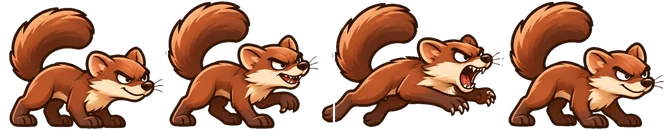
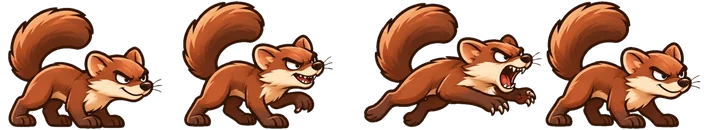
Simboli di stato in campo e abilità sulle carte; Lupo, Falco e sheet ritagliati interi
- 24 simboli (icons/st): sopra l'unità in campo (fino a due) e in fila sull'illustrazione della carta
- ritaglio dei fogli per spazi vuoti e forme intere, mai a celle uguali (tools/immagini, CLAUDE.md)

Claude-Session: https://claude.ai/code/session_01HfaWZ85fbzKyRqfxnb746i

diff --git a/index.html b/index.html
@@ -303,6 +303,9 @@ details.codex summary{cursor:pointer;font-family:var(--f-display);font-size:20px
 @keyframes spin{to{transform:rotate(360deg)}}
 @media (prefers-reduced-motion:reduce){.tcg.s3 .tart::before{animation:none}}
 .tstars{position:absolute;right:8px;bottom:6px;color:#ffd54a;font-size:16px;text-shadow:0 1px 2px rgba(0,0,0,.6);letter-spacing:1px}
+.tabil{position:absolute;left:6px;bottom:6px;display:flex;gap:3px;z-index:1}
+.tabil img{width:26px;height:26px;padding:2px;border-radius:50%;background:rgba(255,255,255,.82);box-shadow:0 1px 3px rgba(0,0,0,.25)}
+.cmbox .tabil img{width:32px;height:32px}.tcg.compact .tabil img{width:22px;height:22px}
 .ttags{font-size:11px;font-weight:800;text-transform:uppercase;letter-spacing:.05em;color:var(--muted)}
 .tstats{display:grid;gap:4px;background:var(--chip);border-radius:12px;padding:8px 10px}
 .trow{display:grid;grid-template-columns:7.4em 1fr 3.8em;align-items:center;gap:8px;font-size:12.5px;font-weight:800}
@@ -1304,12 +1307,24 @@ const ORDERS={
 };
 
 const IMG={};
+// simboli di stato e abilità (cartella icons/st/): sopra la testa in campo e in una fila sulle carte
+const STN={stordito:'Stordisce',trappola:'Trappole',calamita:'Attira i nemici',pannocchia:'Esca per gli Animali',moneta:'Esca per gli Umani',zzz:'Pisolino',
+  lumaca:'Rallenta',nube:'Nube puzzolente',ape:'Api',stivale:'Velocità',sacco:'Diventa ladro',manette:'Arresto',croce:'Cura',maschera:'Travestimento',fantasma:'Invisibile',
+  spinta:'Spinta',ali:'Vola',pala:'Scava',occhio:'Scopre i nascosti',staccionata:'Costruisce',mirino:'Spara da lontano',corazza:'Corazza',uovofinto:'Uovo finto',grido:"Grido d'allarme"};
+const STI={};for(const k in STN){STI[k]=new Image();STI[k].src=`icons/st/${k}.webp`}
+const ABIL={tacchino:['calamita','lumaca'],gallico:['calamita','lumaca','stordito'],mucca:['spinta','lumaca'],asino:['spinta','calamita','corazza','grido'],
+  cane:['sacco'],spazzino:['sacco'],trombettiere:['stivale','sacco'],oca:['grido','stivale'],avicoltore:['stivale'],toro:['stivale'],
+  spaventa:['calamita','lumaca'],mais:['pannocchia'],coltivatore:['pannocchia'],benefattore:['moneta'],ladro:['fantasma'],volpe:['maschera'],
+  cacciatore:['mirino'],poliziotto:['mirino','manette'],bracconiere:['trappola','stordito','sacco'],corvo:['ali','occhio'],gufo:['ali','occhio'],gazza:['ali'],falco:['ali'],
+  gatto:['occhio'],talpa:['pala'],carpentiera:['staccionata'],castoro:['staccionata'],chioccia:['uovofinto'],veterinario:['croce'],puzzola:['nube'],
+  apicoltore:['ape','lumaca'],lepre:['zzz'],tartaruga:['corazza']};
+const abilRow=k=>(ABIL[k]||[]).length?`<span class="tabil">${ABIL[k].map(a=>`<img src="icons/st/${a}.webp" alt="${STN[a]}" title="${STN[a]}">`).join('')}</span>`:'';
 // personaggi animati (cartella icons/anim/): striscia orizzontale di n fotogrammi, il personaggio guarda a destra.
 // stride = pixel percorsi per fotogramma; h = altezza in campo. Chi non è qui usa l'icona nel tondino.
 const ANIM={
-  faina:{h:31,stride:7,walk:{n:4,fw:153,fh:131,ax:.5},atk:{n:4,fw:167,fh:130,ax:.516}},
-  mucca:{h:40,stride:6,walk:{n:4,fw:176,fh:134,ax:.5},atk:{n:4,fw:191,fh:139,ax:.459}},
-  corvo:{h:40,fly:{n:4,fw:151,fh:179,ax:.994,ox:62},atk:{n:4,fw:164,fh:173,ax:.994,ox:62}},
+  faina:{h:31,stride:7,walk:{n:4,fw:153,fh:131,ax:.5},atk:{n:4,fw:181,fh:130,ax:.47}},
+  mucca:{h:40,stride:6,walk:{n:4,fw:176,fh:134,ax:.5},atk:{n:4,fw:204,fh:139,ax:.409}},
+  corvo:{h:40,fly:{n:4,fw:151,fh:179,ax:.994,ox:62},atk:{n:4,fw:167,fh:173,ax:.968,ox:62}},
 };
 // file: icons/anim/<personaggio>-walk|atk|fly.webp; ax = punto d'aggancio nel fotogramma (0 sinistra, 1 destra), ox = suo spostamento dal centro (px a scala 128)
 for(const k in ANIM)for(const m of ['walk','atk','fly'])if(ANIM[k][m]){const a=ANIM[k][m];a.im=new Image();a.im.src=`icons/anim/${k}-${m}.webp`}
@@ -1758,7 +1773,7 @@ function attack(u,t,S){
   else u.lunge=.12;
   if(u.def.missFly&&t.def.flying&&S.rng()<u.def.missFly){fx(S,t.x,t.y-24,'mancato!','#fff6c4');return}
   if(!u.def.ranged&&t.def.dodge&&S.rng()<t.def.dodge){fx(S,t.x,t.y-18,'schivata','#fff6c4');return}
-  if(u.def.arrest&&t.carrying!==null&&!t.def.unstoppable&&S.rng()<(u.def.arrestChance||(t.type==='ladro'?.6:u.star===2?.55:.4))){t.stun=u.def.arrestStun||1.5;fx(S,t.x,t.y-22,'ARRESTO!','#fff6c4');log(S,`${nm(u)} arresta ${nm(t)}: l'uovo cade`);dropEgg(t,S)}
+  if(u.def.arrest&&t.carrying!==null&&!t.def.unstoppable&&S.rng()<(u.def.arrestChance||(t.type==='ladro'?.6:u.star===2?.55:.4))){t.stun=u.def.arrestStun||1.5;t.cuffT=S.t+t.stun;fx(S,t.x,t.y-22,'ARRESTO!','#fff6c4');log(S,`${nm(u)} arresta ${nm(t)}: l'uovo cade`);dropEgg(t,S)}
   if(u.def.stunHit) t.stun=Math.max(t.stun,u.def.stunHit);
   if(u.def.stunEvery&&!(u.stunCd>0)&&!t.def.unstoppable){t.stun=Math.max(t.stun,u.def.stunT);u.stunCd=u.def.stunEvery;fx(S,t.x,t.y-22,'stordito!','#fff6c4')}
   damage(t,dmg,S,u);
@@ -2104,14 +2119,31 @@ function drawToken1(x,y,side,type,star,order,o={}){
     const oi=OIMG[order];if(oi&&oi.complete&&oi.naturalWidth)ctx.drawImage(oi,x+13-7.5,yy+12-7.5,15,15);
     else{ctx.font='9px "Apple Color Emoji","Segoe UI Emoji","Noto Color Emoji",sans-serif';ctx.fillStyle='#000';ctx.fillText(ORDERS[order].i,x+13,yy+12.5)}}
   if(o.hpf!==undefined&&o.hpf<1){ctx.fillStyle='rgba(0,0,0,.45)';ctx.fillRect(x-15,yy-25,30,4);ctx.fillStyle=o.hpf>.5?'#6ee06e':o.hpf>.25?'#f2c230':'#f05a4a';ctx.fillRect(x-15,yy-25,30*Math.max(0,o.hpf),4)}
-  if(o.stun>0){ctx.font='13px sans-serif';ctx.fillText('💫',x,yy-30)}
   if(o.snare>0){ctx.strokeStyle='#5a3a1a';ctx.lineWidth=3;ctx.beginPath();ctx.arc(x,yy+8,14,0,Math.PI);ctx.stroke()}
-  if(o.wait>0){ctx.font='11px sans-serif';ctx.fillText('⏳',x-14,yy-14)}
-  if(o.disguised){ctx.font='12px sans-serif';ctx.fillText('🎭',x+14,yy-15)}
-  if(o.boost>0){ctx.font='10px sans-serif';ctx.fillText('💨',x-15,yy+14)}
-  if(o.turned){ctx.font='11px sans-serif';ctx.fillText('🎒',x-14,yy-14)}
+  if(o.st&&o.st.length){const z=16,n=Math.min(2,o.st.length),bob=Math.sin(performance.now()/260)*1,ty=(sp?(d.flying?yy-14:y+13-A.h*.8):yy-15)+bob;
+    for(let i=0;i<n;i++){const im=STI[o.st[i]]||OIMG[o.st[i]],cx=x+(i?16:n===1?-16:-16);
+      ctx.fillStyle='rgba(255,255,255,.85)';ctx.beginPath();ctx.arc(cx,ty,z/2+2,0,7);ctx.fill();
+      if(im&&im.complete&&im.naturalWidth)ctx.drawImage(im,cx-z/2,ty-z/2,z,z)}}
   ctx.globalAlpha=1;
 }
+// simboli sopra la testa, in ordine di importanza (se ne vedono al massimo due)
+function statusOf(u,S){const o=[],en=e=>e.alive&&e.side!==u.side,near=(e,r)=>Math.hypot(e.x-u.x,e.y-u.y)<r;
+  if(u.stun>0)o.push(u.cuffT>S.t?'manette':'stordito');
+  if(u.snare>0)o.push('trappola');if(u.sleep>0)o.push('zzz');
+  if(u.tauntT>0)o.push('calamita');
+  if(u.eatT>0)o.push(u.def.tags.includes('Umano')?'moneta':'pannocchia');
+  if(!u.def.unstoppable&&!u.underground){
+    if(S.clouds.some(c=>c.side!==u.side&&c.t>0&&near(c,c.r)))o.push('nube');
+    let bee=false,slow=!!u.fed;
+    for(const e of S.units){if(!en(e))continue;
+      if(e.def.aura&&near(e,e.def.aura.r)){if(e.def.aura.dps)bee=true;else slow=true}
+      if(u.def.flying&&e.def.slowFly&&near(e,e.def.slowFly))slow=true;
+      if(e.def.block&&u.carrying!=null&&!u.def.flying&&near(e,36))slow=true}
+    if(bee)o.push('ape');if(slow)o.push('lumaca')}
+  if(u.hp<u.maxHp&&S.units.some(e=>e.alive&&e.side===u.side&&e.def.heal&&e!==u&&near(e,e.def.healR||90)&&(u.def.tags.includes('Animale')||e.def.healAll)))o.push('croce');
+  if(u.boostT>0)o.push('stivale');
+  if(u.wait>0)o.push('attesa');if(u.turned)o.push('sacco');if(u.disguised)o.push('maschera');if(u.invis>0)o.push('fantasma');
+  return o}
 function drawTrap(t,own){
   ctx.globalAlpha=own?.9:.35;
   ctx.strokeStyle='#3b2a1a';ctx.lineWidth=2.5;ctx.beginPath();ctx.arc(t.x,t.y,9,0,7);ctx.stroke();
@@ -2211,7 +2243,7 @@ function render(){
     if((S.fog||S.mist)&&u.side!==G.me&&!S.units.some(a=>a.alive&&a.side===G.me&&sees(a,u))) continue;
     if(u.def.wall){const hh=u.def.wall*FENCE_L,f=u.hp/u.maxHp;if(f<1){ctx.fillStyle='rgba(0,0,0,.45)';ctx.fillRect(X(u.x)-14,u.y-hh-11,28,5);ctx.fillStyle=SIDE[C(u.side)].col;ctx.fillRect(X(u.x)-14,u.y-hh-11,28*f,5)}continue}
     {const dd=u._lx==null?0:Math.hypot(u.x-u._lx,u.y-u._ly);u._wd=(u._wd||0)+(dd<20?dd:0);u._mv=dd>.05&&dd<20?.12:Math.max(0,(u._mv||0)-1/60);u._lx=u.x;u._ly=u.y;if(u.lunge>(u._pl||0)+.001)u._at=performance.now();u._pl=u.lunge}
-    drawToken(X(u.x),u.y,C(u.side),u.type,u.star,u.order,{walk:u._wd,moving:u._mv>0,atk:u._at?(performance.now()-u._at)/1000:null,col:G.duo&&duoOwner(u)!=null?duoColOf(duoOwner(u)):null,underground:u.underground,invis:u.invis>0,hpf:u.hp/u.maxHp,stun:u.stun,snare:u.snare,hit:u.hit,lunge:u.lunge,face:F?-u.face:u.face,wait:u.wait,turned:u.turned,disguised:u.disguised,boost:u.boostT});
+    drawToken(X(u.x),u.y,C(u.side),u.type,u.star,u.order,{st:statusOf(u,S),walk:u._wd,moving:u._mv>0,atk:u._at?(performance.now()-u._at)/1000:null,col:G.duo&&duoOwner(u)!=null?duoColOf(duoOwner(u)):null,underground:u.underground,invis:u.invis>0,hpf:u.hp/u.maxHp,stun:u.stun,snare:u.snare,hit:u.hit,lunge:u.lunge,face:F?-u.face:u.face,wait:u.wait,turned:u.turned,disguised:u.disguised,boost:u.boostT});
     if(u.fake) drawEgg(X(u.x),u.y-(u.def.flying?40:28),.7,false);
     if(u.carrying!==null) drawEgg(X(u.x),u.y-(u.def.flying?40:28),.7,false);
     if(u.lb>0){ctx.font='11px "Apple Color Emoji","Segoe UI Emoji","Noto Color Emoji",sans-serif';ctx.textAlign='center';ctx.fillText('💨',X(u.x)-(F?-1:1)*u.face*18,u.y-22)}
@@ -2413,7 +2445,7 @@ function tcgCard(k,star,o={}){const d=UNITS[k],s=statsOf(k,star),r=roleOf(k);
   const roleTag={thief:'Ladro',def:'Guardiano'}[r];
   return `<article class="tcg r-${r} s${star}${o.compact?' compact':''}${o.dense?' dense':''}">
     <header><span class="tname">${d.n}</span><span class="tcost${o.cost!=null&&o.cost!==(d.cost??COST[d.t])?' up':''}" title="Costo">${o.cost??d.cost??COST[d.t]}</span></header>
-    <div class="tart"><span class="temo" aria-hidden="true">${IC(d)}</span><span class="tstars">${'★'.repeat(star)}</span></div>
+    <div class="tart"><span class="temo" aria-hidden="true">${IC(d)}</span><span class="tstars">${'★'.repeat(star)}</span>${abilRow(k)}</div>
     <div class="ttags"><span class="trole">${ROLES[r].n}</span>${d.fogOnly?'<span class="trole fogb">🌫 Solo Nebbia</span>':''}${d.classicOnly?'<span class="trole fogb">Solo Classica</span>':''} ${d.tags.filter(t=>t!=='Piccolo'&&t!==roleTag).join(' · ')} · Liv. ${d.t}${(d.minRound||1)>1?` · dal round ${d.minRound}`:''}</div>
     <div class="tstats">${STATDEF.map(([key,i,l])=>{const v=statVal(s,key),w=v==='mischia'?6:v==='—'?0:Math.max(4,Math.min(100,v/statMax(star,key)*100));
       return `<div class="trow" title="${l}: ${v}"><span><i aria-hidden="true">${i}</i><span class="tl"> ${l}</span></span><span class="tbar"><b style="width:${w}%"></b></span><span class="tv">${v}</span></div>`}).join('')}</div>

diff --git a/lang/es.js b/lang/es.js
@@ -285,7 +285,7 @@ window.FF_I18N=window.FF_I18N||{};window.FF_I18N.es={
 "Resta fermo i primi 4 secondi, poi agisce. Utile per far partire prima gli altri.": "Se queda quieto los primeros 4 segundos y luego actúa. Útil para que los demás salgan antes.",
 "Scatto": "Sprint",
 "+25% velocità, −25% vita.": "+25% velocidad, −25% vida.",
-"Corazza": "Coraza",
+"Corazza": "Armadura",
 "+40% vita, −15% velocità.": "+40% vida, −15% velocidad.",
 "Ritirata": "Retirada",
 "Sotto il 35% di vita torna all'uovo e si cura fino all'80%.": "Por debajo del 35% de vida vuelve al huevo y se cura hasta el 80%.",
@@ -925,5 +925,26 @@ window.FF_I18N=window.FF_I18N||{};window.FF_I18N.es={
 "Compra {0} · {1} oro": "Comprar {0} · {1} de oro",
 "Resta vicino al tuo uovo e ferma chi lo vuole rubare": "Se queda cerca de tu huevo y frena a quien quiera robarlo",
 "Aiuta i compagni: cure, velocità ed esche": "Ayuda a los compañeros: curas, velocidad y cebos",
-"Tiene una zona del campo: ostacoli, aree e trappole": "Controla una zona del campo: obstáculos, áreas y trampas"
+"Tiene una zona del campo: ostacoli, aree e trappole": "Controla una zona del campo: obstáculos, áreas y trampas",
+"Stordisce": "Aturde",
+"Attira i nemici": "Atrae a los enemigos",
+"Esca per gli Animali": "Cebo para Animales",
+"Esca per gli Umani": "Cebo para Humanos",
+"Pisolino": "Siesta",
+"Rallenta": "Ralentiza",
+"Nube puzzolente": "Nube apestosa",
+"Api": "Abejas",
+"Diventa ladro": "Se vuelve ladrón",
+"Arresto": "Arresto",
+"Cura": "Cura",
+"Travestimento": "Disfraz",
+"Invisibile": "Invisible",
+"Spinta": "Empuje",
+"Vola": "Vuela",
+"Scava": "Excava",
+"Scopre i nascosti": "Descubre a los ocultos",
+"Costruisce": "Construye",
+"Spara da lontano": "Dispara de lejos",
+"Uovo finto": "Huevo falso",
+"Grido d'allarme": "Grito de alarma"
 };

diff --git a/lang/fr.js b/lang/fr.js
@@ -285,7 +285,7 @@ window.FF_I18N=window.FF_I18N||{};window.FF_I18N.fr={
 "Resta fermo i primi 4 secondi, poi agisce. Utile per far partire prima gli altri.": "Reste immobile les 4 premières secondes, puis agit. Utile pour laisser partir les autres d'abord.",
 "Scatto": "Sprint",
 "+25% velocità, −25% vita.": "+25 % vitesse, −25 % PV.",
-"Corazza": "Cuirasse",
+"Corazza": "Armure",
 "+40% vita, −15% velocità.": "+40 % PV, −15 % vitesse.",
 "Ritirata": "Retraite",
 "Sotto il 35% di vita torna all'uovo e si cura fino all'80%.": "Sous 35 % de PV, retourne à l'œuf et se soigne jusqu'à 80 %.",
@@ -925,5 +925,26 @@ window.FF_I18N=window.FF_I18N||{};window.FF_I18N.fr={
 "Compra {0} · {1} oro": "Acheter {0} · {1} or",
 "Resta vicino al tuo uovo e ferma chi lo vuole rubare": "Reste près de ton œuf et arrête ceux qui veulent le voler",
 "Aiuta i compagni: cure, velocità ed esche": "Aide les coéquipiers : soins, vitesse et appâts",
-"Tiene una zona del campo: ostacoli, aree e trappole": "Tient une zone du terrain : obstacles, zones et pièges"
+"Tiene una zona del campo: ostacoli, aree e trappole": "Tient une zone du terrain : obstacles, zones et pièges",
+"Stordisce": "Étourdit",
+"Attira i nemici": "Attire les ennemis",
+"Esca per gli Animali": "Appât pour les Animaux",
+"Esca per gli Umani": "Appât pour les Humains",
+"Pisolino": "Sieste",
+"Rallenta": "Ralentit",
+"Nube puzzolente": "Nuage puant",
+"Api": "Abeilles",
+"Diventa ladro": "Devient voleur",
+"Arresto": "Arrestation",
+"Cura": "Soigne",
+"Travestimento": "Déguisement",
+"Invisibile": "Invisible",
+"Spinta": "Repousse",
+"Vola": "Vole",
+"Scava": "Creuse",
+"Scopre i nascosti": "Révèle les cachés",
+"Costruisce": "Construit",
+"Spara da lontano": "Tire de loin",
+"Uovo finto": "Faux œuf",
+"Grido d'allarme": "Cri d’alarme"
 };

diff --git a/sw.js b/sw.js
@@ -2,7 +2,7 @@
 // Pagina e script: prima la rete (così gli aggiornamenti arrivano subito), poi la copia salvata.
 // Immagini: prima la copia salvata. Quando cambi immagini già esistenti, aumenta VERSION.
 // tools/test-pwa.js controlla che tutte le icone siano in PRECACHE.
-const VERSION='ff-v3';
+const VERSION='ff-v4';
 const PRECACHE=[
  "./",
  "index.html",
@@ -34,6 +34,30 @@ const PRECACHE=[
  "icons/corvo.webp",
  "icons/faina.webp",
  "icons/anim/corvo-atk.webp",
+ "icons/st/ali.webp",
+ "icons/st/ape.webp",
+ "icons/st/calamita.webp",
+ "icons/st/corazza.webp",
+ "icons/st/croce.webp",
+ "icons/st/fantasma.webp",
+ "icons/st/grido.webp",
+ "icons/st/lumaca.webp",
+ "icons/st/manette.webp",
+ "icons/st/maschera.webp",
+ "icons/st/mirino.webp",
+ "icons/st/moneta.webp",
+ "icons/st/nube.webp",
+ "icons/st/occhio.webp",
+ "icons/st/pala.webp",
+ "icons/st/pannocchia.webp",
+ "icons/st/sacco.webp",
+ "icons/st/spinta.webp",
+ "icons/st/staccionata.webp",
+ "icons/st/stivale.webp",
+ "icons/st/stordito.webp",
+ "icons/st/trappola.webp",
+ "icons/st/uovofinto.webp",
+ "icons/st/zzz.webp",
  "icons/anim/corvo-fly.webp",
  "icons/anim/faina-atk.webp",
  "icons/anim/faina-walk.webp",

diff --git a/lang/en.js b/lang/en.js
@@ -925,5 +925,26 @@ window.FF_I18N=window.FF_I18N||{};window.FF_I18N.en={
 "Compra {0} · {1} oro": "Buy {0} · {1} gold",
 "Resta vicino al tuo uovo e ferma chi lo vuole rubare": "Stays near your egg and stops anyone trying to steal it",
 "Aiuta i compagni: cure, velocità ed esche": "Helps teammates: healing, speed and baits",
-"Tiene una zona del campo: ostacoli, aree e trappole": "Holds an area of the field: obstacles, zones and traps"
+"Tiene una zona del campo: ostacoli, aree e trappole": "Holds an area of the field: obstacles, zones and traps",
+"Stordisce": "Stuns",
+"Attira i nemici": "Lures enemies",
+"Esca per gli Animali": "Bait for Animals",
+"Esca per gli Umani": "Bait for Humans",
+"Pisolino": "Nap",
+"Rallenta": "Slows",
+"Nube puzzolente": "Stink cloud",
+"Api": "Bees",
+"Diventa ladro": "Becomes a thief",
+"Arresto": "Arrest",
+"Cura": "Heals",
+"Travestimento": "Disguise",
+"Invisibile": "Invisible",
+"Spinta": "Knockback",
+"Vola": "Flies",
+"Scava": "Digs",
+"Scopre i nascosti": "Reveals hidden units",
+"Costruisce": "Builds",
+"Spara da lontano": "Shoots from afar",
+"Uovo finto": "Fake egg",
+"Grido d'allarme": "Alarm call"
 };

diff --git a/tools/immagini/sheet.py b/tools/immagini/sheet.py
@@ -1,0 +1,56 @@
+# uso: python3 sheet.py input output.webp N modo
+# modo: center (ogni fotogramma centrato su sé stesso: camminate), cell (tutti allineati al primo: attacchi con affondo),
+#       right (allineati sul bordo destro, cioè il muso: volanti con ali che cambiano molto)
+# Toglie lo sfondo bianco, mette tutti i fotogrammi alla stessa scala (altezza tipica = 128 px) e stampa i dati per ANIM.
+import sys,json
+from PIL import Image,ImageFilter
+import numpy as np
+import scipy.ndimage as nd
+src,dst,N=sys.argv[1],sys.argv[2],int(sys.argv[3]);mode=sys.argv[4] if len(sys.argv)>4 else 'center'
+im=Image.open(src).convert('RGB');W,Hh=im.size;cw=W//N
+# confini tra i fotogrammi: le N-1 colonne vuote più larghe (i generatori non fanno celle uguali)
+A=np.array(im).astype(int);ink=(~((A.min(axis=2)>228)&((A.max(axis=2)-A.min(axis=2))<20))).sum(axis=0)>2
+runs=[];x=0
+while x<W:
+    if not ink[x]:
+        y=x
+        while y<W and not ink[y]: y+=1
+        if x>0 and y<W: runs.append((y-x,(x+y)//2))
+        x=y
+    else: x+=1
+cuts=sorted(c for _,c in sorted(runs,reverse=True)[:N-1]);edges=[0]+cuts+[W]
+if len(edges)!=N+1: edges=[i*cw for i in range(N)]+[W]
+frames=[];boxes=[]
+for i in range(N):
+    c=np.array(im.crop((edges[i],0,edges[i+1],Hh))).astype(int);h,w,_=c.shape
+    white=(c.min(axis=2)>228)&((c.max(axis=2)-c.min(axis=2))<20)
+    lab,n=nd.label(white);bg=np.zeros((h,w),bool)
+    border=set(np.unique(np.concatenate([lab[0],lab[-1],lab[:,0],lab[:,-1]])))-{0}
+    sz=nd.sum(np.ones_like(lab),lab,range(1,n+1))
+    for k in border: bg|=lab==k
+    # buchi bianchi chiusi: via quelli tra le zampe (in basso) o vicino alla coda (a sinistra); gli occhi (in alto a destra) restano
+    ys,xs=np.where(~bg);by0,by1,bx0,bx1=ys.min(),ys.max(),xs.min(),xs.max()
+    for k,z in enumerate(sz,1):
+        if k in border or z<60: continue
+        yy,xx=np.where(lab==k);cy=(yy.mean()-by0)/(by1-by0);cx=(xx.mean()-bx0)/(bx1-bx0)
+        if cy>.6 or cx<.22: bg|=lab==k
+    a=Image.fromarray(np.where(bg,0,255).astype(np.uint8)).filter(ImageFilter.MinFilter(3)).filter(ImageFilter.GaussianBlur(.8))
+    rgba=Image.fromarray(c.astype(np.uint8)).convert('RGBA');rgba.putalpha(a)
+    am=np.array(a)>40
+    # via i pezzetti staccati (sbavature, puntini)
+    l2,n2=nd.label(am);s2=nd.sum(am,l2,range(1,n2+1));keep=np.isin(l2,[k+1 for k,z in enumerate(s2) if z>=max(s2)*.02])
+    ys,xs=np.where(keep);boxes.append((xs.min(),ys.min(),xs.max()+1,ys.max()+1));frames.append(rgba)
+if mode=='cell': anc=[(boxes[0][0]+boxes[0][2])/2]*N
+elif mode=='cellright': anc=[boxes[0][2]]*N
+elif mode=='right': anc=[b[2] for b in boxes]
+else: anc=[(b[0]+b[2])/2 for b in boxes]
+L=max(a-b[0] for a,b in zip(anc,boxes))+3;Rr=max(b[2]-a for a,b in zip(anc,boxes))+3
+y0=min(b[1] for b in boxes)-3;y1=max(b[3] for b in boxes)+3
+import os
+med=sorted(b[3]-b[1] for b in boxes)[N//2];s=int(os.environ.get('BASE','128'))/med
+FW=round((L+Rr)*s);FH=round((y1-y0)*s)
+out=Image.new('RGBA',(FW*N,FH),(0,0,0,0))
+for i,(f,a) in enumerate(zip(frames,anc)):
+    l=int(round(a-L));cr=f.crop((l,y0,l+int(L+Rr),y1)).resize((FW,FH),Image.LANCZOS);out.alpha_composite(cr,(i*FW,0))
+out.save(dst,'WEBP',quality=86,method=6)
+print(json.dumps({'n':N,'fw':FW,'fh':FH,'ax':round(L/(L+Rr),3)}))

diff --git a/tools/immagini/cutgrid.py b/tools/immagini/cutgrid.py
@@ -1,0 +1,32 @@
+# Ritaglia un foglio di icone in una griglia COLONNE x RIGHE.
+# Regola: mai tagliare in celle uguali. Ogni figura si prende intera (con i pezzi staccati vicini: stelline, righe di movimento),
+# anche se sconfina nella cella accanto; ogni pezzo va alla cella più vicina al suo centro.
+# uso: python3 cutgrid.py immagine colonne righe nome1,nome2,... [buchi] [cartella]
+#   buchi: nomi a cui togliere anche il bianco chiuso (es. i fori delle manette); cartella: dove salvare (default icons/st)
+import sys
+from PIL import Image,ImageFilter
+import numpy as np, scipy.ndimage as nd
+src,C,Rr,names=sys.argv[1],int(sys.argv[2]),int(sys.argv[3]),sys.argv[4].split(',')
+holes=set(sys.argv[5].split(',')) if len(sys.argv)>5 and sys.argv[5] else set();OUT=sys.argv[6] if len(sys.argv)>6 else 'icons/st'
+im=Image.open(src).convert('RGB');W,H=im.size;A=np.array(im).astype(int)
+white=(A.min(axis=2)>226)&((A.max(axis=2)-A.min(axis=2))<22)
+lab,n=nd.label(white);border=set(np.unique(np.concatenate([lab[0],lab[-1],lab[:,0],lab[:,-1]])))-{0}
+bg=np.isin(lab,list(border));ink=~bg
+pl,pn=nd.label(ink);objs=nd.find_objects(pl);psz=nd.sum(ink,pl,range(1,pn+1));com=nd.center_of_mass(ink,pl,range(1,pn+1))
+cell={}
+for k in range(pn):
+    if psz[k]<40: continue
+    cy,cx=com[k];c=min(C-1,int(cx/(W/C)));r=min(Rr-1,int(cy/(H/Rr)));cell.setdefault(r*C+c,[]).append(k+1)
+for idx,name in enumerate(names):
+    ks=cell.get(idx,[]);m=np.isin(pl,ks)
+    if name in holes:
+        hl,hn=nd.label(white&m);hs=nd.sum(np.ones_like(hl),hl,range(1,hn+1))
+        for k,z in enumerate(hs,1):
+            if z>120: m&=~(hl==k)
+    ys,xs=np.where(m);x0,x1,y0,y1=xs.min(),xs.max()+1,ys.min(),ys.max()+1
+    al=Image.fromarray((m*255).astype(np.uint8)).filter(ImageFilter.MinFilter(3)).filter(ImageFilter.GaussianBlur(.7))
+    rgba=im.convert('RGBA');rgba.putalpha(al);cr=rgba.crop((x0,y0,x1,y1))
+    S=128;k=120/max(cr.size);cr=cr.resize((round(cr.width*k),round(cr.height*k)),Image.LANCZOS)
+    out=Image.new('RGBA',(S,S),(0,0,0,0));out.alpha_composite(cr,((S-cr.width)//2,(S-cr.height)//2))
+    out.save(f'{OUT}/{name}.webp','WEBP',quality=88,method=6)
+print('ok',len(names))

diff --git a/CLAUDE.md b/CLAUDE.md
@@ -1,0 +1,11 @@
+# Farmyard Frenzy: note per chi lavora al progetto
+
+## Immagini generate (icone, sprite sheet, simboli)
+- **Mai tagliare un foglio in celle uguali.** I generatori di immagini non rispettano la griglia: ali, zampe, code e stelline
+  sconfinano nella cella accanto, e un taglio a celle uguali le mozza (è successo con Falco, Lupo e Castoro, e con l'attacco della Mucca).
+- Sprite sheet (una riga di fotogrammi): `python3 tools/immagini/sheet.py foglio.png icons/anim/<pg>-<walk|atk|fly>.webp 4 <center|cell|right|cellright>`.
+  I confini sono le colonne vuote più larghe tra un fotogramma e l'altro; stampa fw, fh e ax da copiare in `ANIM` (index.html).
+- Griglie di icone: `python3 tools/immagini/cutgrid.py foglio.png COLONNE RIGHE nome1,nome2,... [buchi] [cartella]`.
+  Ogni figura si prende intera come forma collegata, anche se esce dalla sua cella.
+- Dopo ogni ritaglio controllare a occhio che nessuna figura abbia un bordo dritto (segno di taglio).
+- Le nuove immagini vanno anche in `PRECACHE` di `sw.js`; se si sostituisce un'immagine esistente, aumentare `VERSION`.
